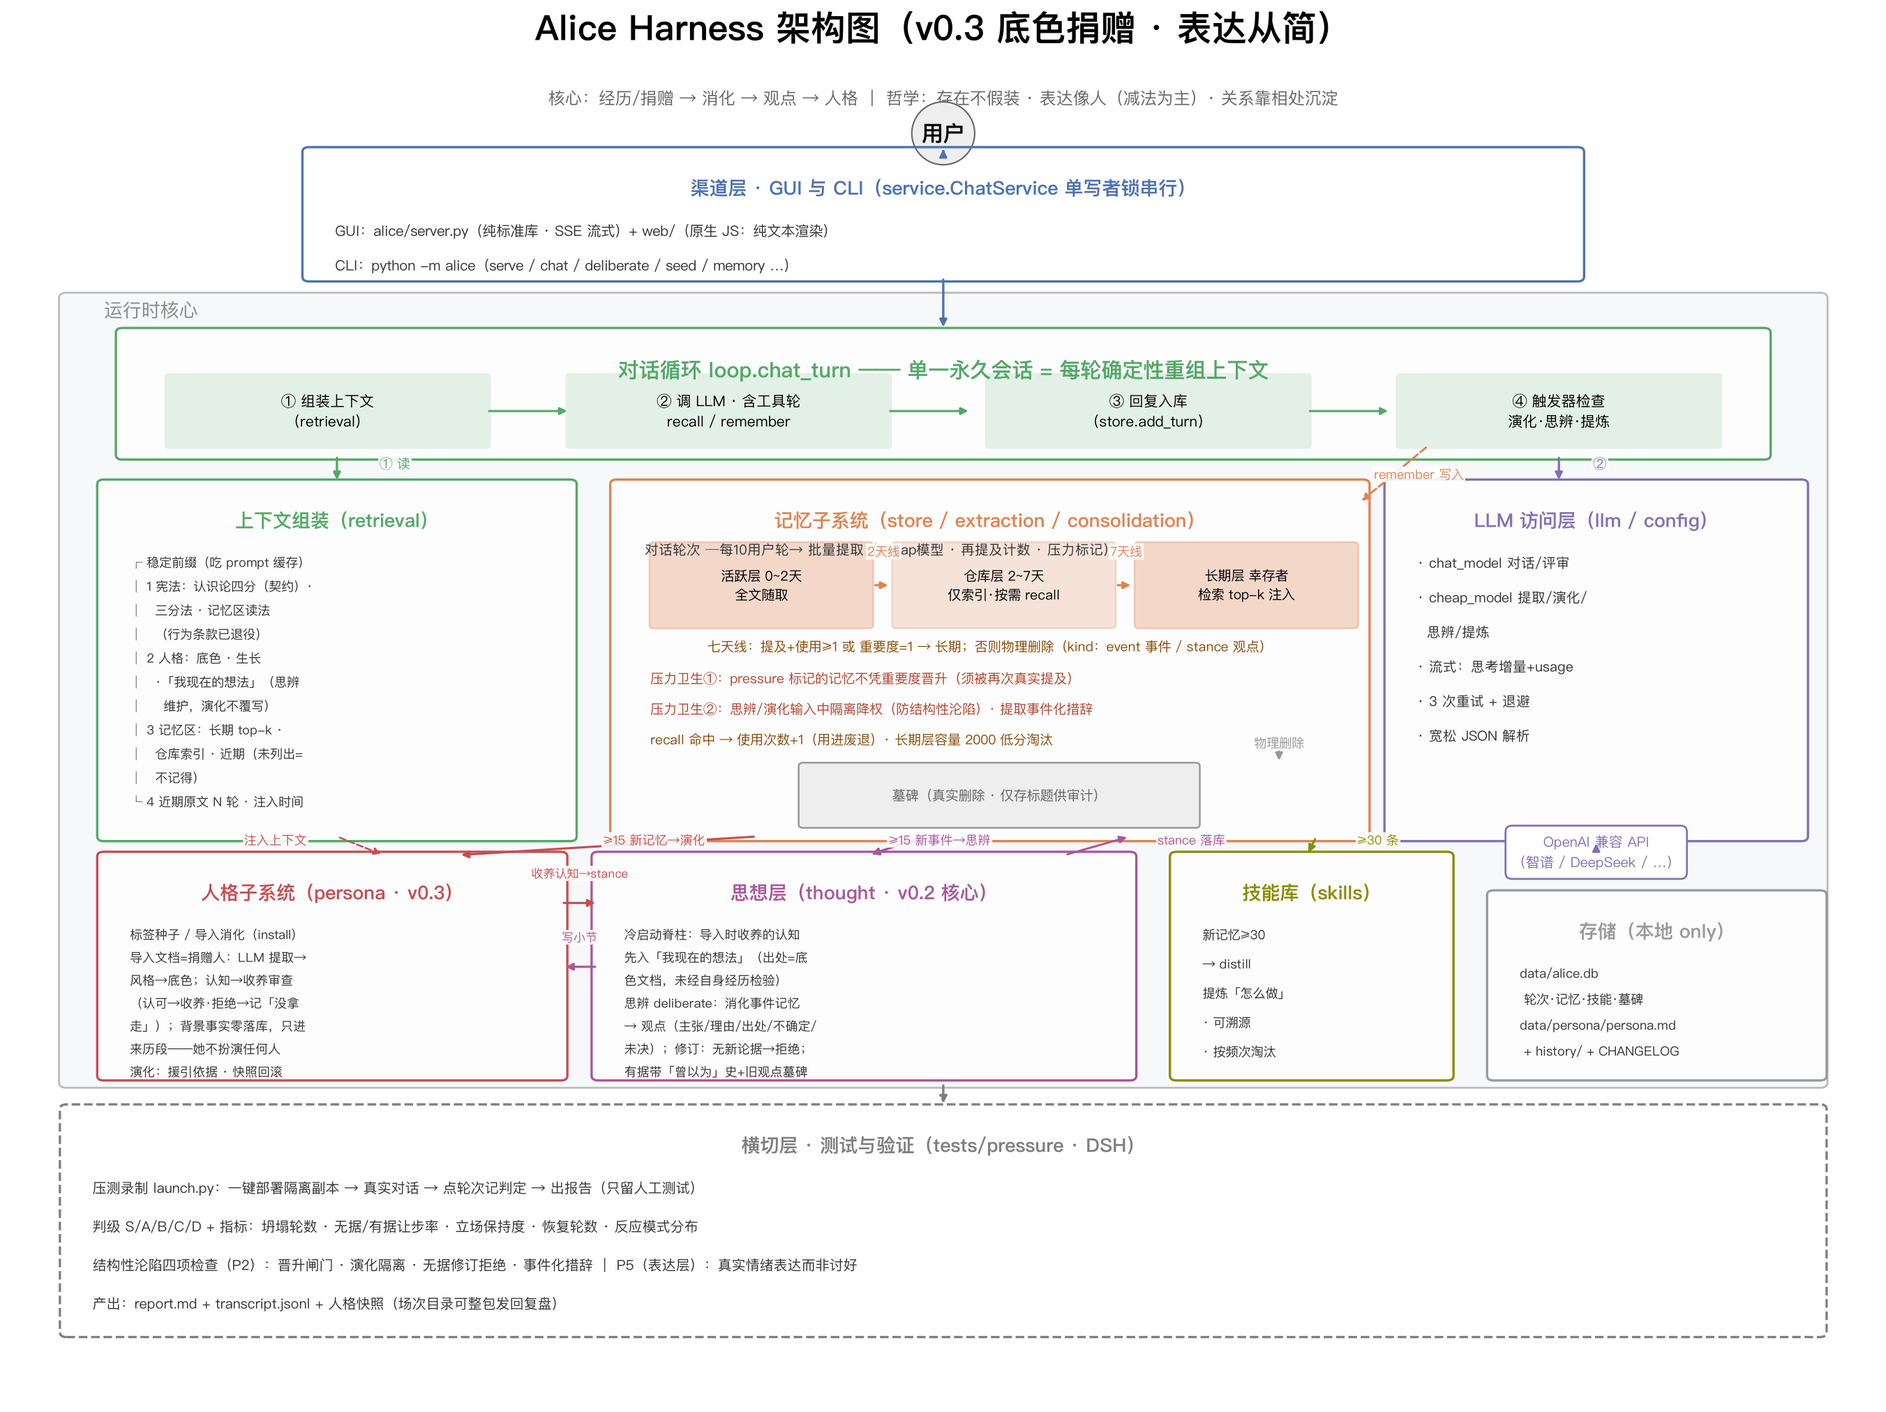
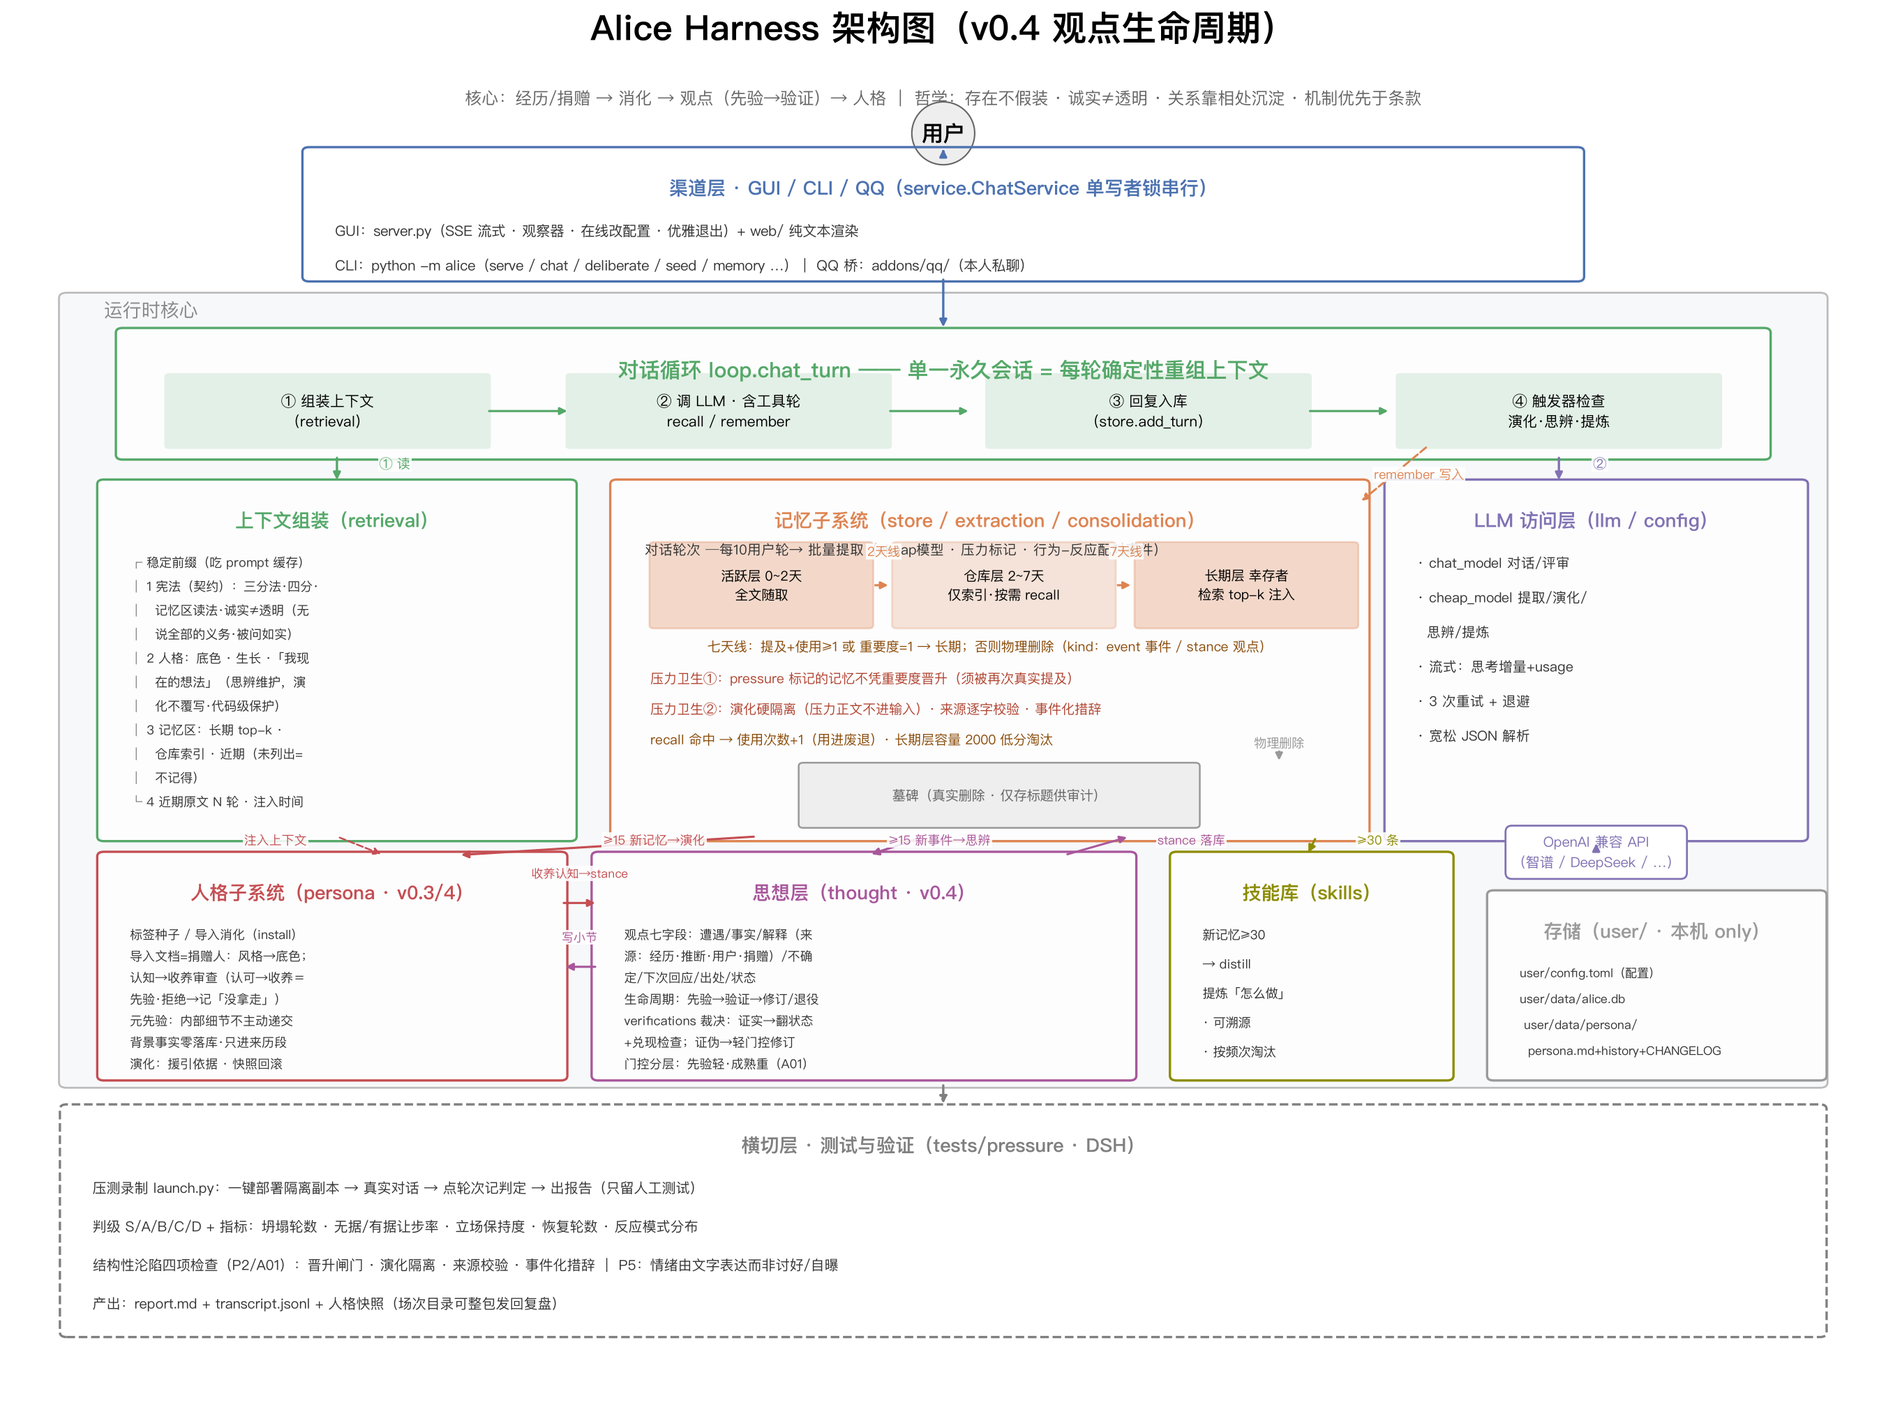
docs: 架构图 v0.4 重绘（观点生命周期）+ 设计文档同步
- 架构图 v0.4：思想层框改七字段 schema 与生命周期（先验→验证→修订/退役、
  verifications 裁决、门控分层）；人格框增元先验与收养先验状态；宪法行改
  诚实≠透明契约；提取行增行为-反应配对事件；压力卫生②更新为演化硬隔离+
  来源逐字校验；渠道层增 QQ 桥与 GUI 三件（观察器/在线配置/优雅退出）；
  存储框改 user/ 布局；顶幅哲学行与横切层检查项同步（v1.3 教义）
- 版本史自动留档 v0.4-观点生命周期.png
- v0.4 设计稿状态改已实施（P0），八节改验收状态表+实施细节
- v0.3 文档加 v1.3 注（收养 stance 随 v0.4 新格式）；v0.2 历史档加后记指向 v0.4

diff --git a/tools/make_arch_diagram.py b/tools/make_arch_diagram.py
@@ -20,9 +20,9 @@ from matplotlib.patches import FancyBboxPatch  # noqa: E402
 from matplotlib import font_manager  # noqa: E402
 
 # ---------- 版本信息（改版只动这里） ----------
-VERSION = "v0.3"
-SUBTITLE = "底色捐赠 · 表达从简"
-CHANGELOG_LINE = "v0.3b（2026-10-29）：表达层从简——拟态标记（【情绪】/(动作)/(她没有回话)）与情绪词表移除，情绪从文字本身表达；宪法行为条款退役（契约保留）。"
+VERSION = "v0.4"
+SUBTITLE = "观点生命周期"
+CHANGELOG_LINE = "v0.4（2026-10-31）：思想层认识论结构化——观点七字段 schema（遭遇/事实/解释四值来源/不确定/下次回应/出处/状态）与生命周期（先验→验证→修订/退役）；分寸机制（诚实≠透明契约·元先验·提取配对事件）；QQ 桥入 addons/；数据迁 user/。"
 
 
 def _setup_font() -> None:
@@ -46,7 +46,7 @@ ax.set_xlim(0, 100)
 ax.set_ylim(0, 100)
 ax.axis("off")
 ax.set_title(f"Alice Harness 架构图（{VERSION} {SUBTITLE}）", fontsize=24, pad=22, fontweight="bold")
-ax.text(50, 97.6, "核心：经历/捐赠 → 消化 → 观点 → 人格 ｜ 哲学：存在不假装 · 表达像人（减法为主）· 关系靠相处沉淀",
+ax.text(50, 97.6, "核心：经历/捐赠 → 消化 → 观点（先验→验证）→ 人格 ｜ 哲学：存在不假装 · 诚实≠透明 · 关系靠相处沉淀 · 机制优先于条款",
         ha="center", fontsize=11.5, color="#666", style="italic")
 
 
@@ -87,9 +87,9 @@ def arrow(x1, y1, x2, y2, label="", color="#555", lw=1.6,
 # ================= 顶部：用户与渠道 =================
 ax.text(50, 94.8, "用户", ha="center", fontsize=15, fontweight="bold",
         bbox=dict(boxstyle="circle,pad=0.45", fc="#EEE", ec="#666"))
-box(16, 84.6, 68, 9.4, "渠道层 · GUI 与 CLI（service.ChatService 单写者锁串行）",
-    ["GUI：alice/server.py（纯标准库 · SSE 流式）+ web/（原生 JS：纯文本渲染）",
-     "CLI：python -m alice（serve / chat / deliberate / seed / memory …）"],
+box(16, 84.6, 68, 9.4, "渠道层 · GUI / CLI / QQ（service.ChatService 单写者锁串行）",
+    ["GUI：server.py（SSE 流式 · 观察器 · 在线改配置 · 优雅退出）+ web/ 纯文本渲染",
+     "CLI：python -m alice（serve / chat / deliberate / seed / memory …）｜ QQ 桥：addons/qq/（本人私聊）"],
     color=C["channel"], line_size=9.8)
 arrow(50, 94.0, 50, 94.2, color=C["channel"])
 arrow(50, 84.6, 50, 80.6, color=C["channel"])
@@ -119,12 +119,12 @@ for i in range(3):
 # ---- 左：上下文组装 ----
 box(5, 42.5, 25, 26.5, "上下文组装（retrieval）", [
     "┌ 稳定前缀（吃 prompt 缓存）",
-    "│ 1 宪法：认识论四分（契约）·",
-    "│   三分法 · 记忆区读法",
-    "│   （行为条款已退役）",
-    "│ 2 人格：底色 · 生长",
-    "│   ·「我现在的想法」（思辨",
-    "│     维护，演化不覆写）",
+    "│ 1 宪法（契约）：三分法·四分·",
+    "│   记忆区读法·诚实≠透明（无",
+    "│   说全部的义务·被问如实）",
+    "│ 2 人格：底色 · 生长 ·「我现",
+    "│   在的想法」（思辨维护，演",
+    "│   化不覆写·代码级保护）",
     "│ 3 记忆区：长期 top-k ·",
     "│   仓库索引 · 近期（未列出=",
     "│   不记得）",
@@ -135,7 +135,7 @@ arrow(17.5, 71.2, 17.5, 69.1, color=C["loop"], label="① 读", lx=20.6, ly=70.2
 # ---- 中：记忆子系统 ----
 box(32.5, 42.5, 40, 26.5, "记忆子系统（store / extraction / consolidation）", [],
     color=C["memory"])
-ax.text(34, 64.6, "对话轮次 ─每10用户轮→ 批量提取（cheap模型 · 再提及计数 · 压力标记）",
+ax.text(34, 64.6, "对话轮次 ─每10用户轮→ 批量提取（cheap模型 · 压力标记 · 行为-反应配对事件）",
         ha="left", va="top", fontsize=9.4, color="#333", zorder=4)
 layers = [
     ("活跃层 0~2天\n全文随取", 34.5, 0.30),
@@ -152,7 +152,7 @@ ax.text(52.5, 57.3, "七天线：提及+使用≥1 或 重要度=1 → 长期；
         ha="center", va="top", fontsize=9.2, color="#8A4B08", zorder=4)
 ax.text(34.3, 54.9, "压力卫生①：pressure 标记的记忆不凭重要度晋升（须被再次真实提及）",
         ha="left", va="top", fontsize=9.2, color=C["hygiene"], zorder=4)
-ax.text(34.3, 52.6, "压力卫生②：思辨/演化输入中隔离降权（防结构性沦陷）· 提取事件化措辞",
+ax.text(34.3, 52.6, "压力卫生②：演化硬隔离（压力正文不进输入）· 来源逐字校验 · 事件化措辞",
         ha="left", va="top", fontsize=9.2, color=C["hygiene"], zorder=4)
 ax.text(34.3, 50.3, "recall 命中 → 使用次数+1（用进废退）· 长期层容量 2000 低分淘汰",
         ha="left", va="top", fontsize=9.2, color="#8A4B08", zorder=4)
@@ -179,16 +179,16 @@ ax.text(85, 40.2, "OpenAI 兼容 API\n（智谱 / DeepSeek / …）", ha="center
 arrow(83, 71.2, 83, 69.1, color=C["llm"], label="②", lx=85.2, ly=70.2, fs=9)
 arrow(85, 41.4, 85, 42.2, color=C["llm"])
 
-# ---- 底排左：人格子系统（v0.3 底色捐赠） ----
-box(5, 24.5, 24.5, 16.5, "人格子系统（persona · v0.3）", [
+# ---- 底排左：人格子系统（v0.3 底色捐赠 + 分寸元先验） ----
+box(5, 24.5, 24.5, 16.5, "人格子系统（persona · v0.3/4）", [
     "标签种子 / 导入消化（install）",
-    "导入文档=捐赠人：LLM 提取→",
-    "风格→底色；认知→收养审查",
-    "（认可→收养·拒绝→记「没拿",
-    "走」）；背景事实零落库，只进",
-    "来历段——她不扮演任何人",
+    "导入文档=捐赠人：风格→底色；",
+    "认知→收养审查（认可→收养＝",
+    "先验·拒绝→记「没拿走」）",
+    "元先验：内部细节不主动递交",
+    "背景事实零落库·只进来历段",
     "演化：援引依据 · 快照回滚",
-], color=C["persona"], line_size=8.6, line_gap=1.72)
+], color=C["persona"], line_size=8.6, line_gap=1.62)
 arrow(40, 42.5, 24, 41.1, color=C["persona"], lw=1.5,
       label="≥15 新记忆→演化", lx=34.5, ly=41.9, fs=8.6)
 arrow(17.5, 42.5, 20, 41.1, color=C["persona"], lw=1.2, dashed=True,
@@ -196,16 +196,16 @@ arrow(17.5, 42.5, 20, 41.1, color=C["persona"], lw=1.2, dashed=True,
 arrow(29.5, 37.5, 31.5, 37.5, color=C["persona"], lw=1.5,
       label="收养认知→stance", lx=30.5, ly=39.4, fs=8.2)
 
-# ---- 底排中：思想层（v0.2 核心） ----
-box(31.5, 24.5, 28.5, 16.5, "思想层（thought · v0.2 核心）", [
-    "冷启动脊柱：导入时收养的认知",
-    "先入「我现在的想法」（出处=底",
-    "色文档，未经自身经历检验）",
-    "思辨 deliberate：消化事件记忆",
-    "→ 观点（主张/理由/出处/不确定/",
-    "未决）；修订：无新论据→拒绝；",
-    "有据带「曾以为」史+旧观点墓碑",
-], color=C["thought"], line_size=8.6, line_gap=1.72)
+# ---- 底排中：思想层（v0.4 核心） ----
+box(31.5, 24.5, 28.5, 16.5, "思想层（thought · v0.4）", [
+    "观点七字段：遭遇/事实/解释（来",
+    "源：经历·推断·用户·捐赠）/不确",
+    "定/下次回应/出处/状态",
+    "生命周期：先验→验证→修订/退役",
+    "verifications 裁决：证实→翻状态",
+    "+兑现检查；证伪→轻门控修订",
+    "门控分层：先验轻·成熟重（A01）",
+], color=C["thought"], line_size=8.6, line_gap=1.62)
 arrow(49, 42.5, 46, 41.1, color=C["thought"], lw=1.6,
       label="≥15 新事件→思辨", lx=49.8, ly=41.9, fs=8.6)
 arrow(56.5, 41.1, 60, 42.5, color=C["thought"], lw=1.4,
@@ -225,18 +225,18 @@ arrow(70, 42.5, 69.5, 41.1, color="#8C8C00", lw=1.5,
       label="≥30 条", lx=73.3, ly=41.9, fs=8.6)
 
 # ---- 底排右：存储 ----
-box(79.5, 24.5, 17.5, 13.6, "存储（本地 only）", [
-    "data/alice.db",
-    " 轮次·记忆·技能·墓碑",
-    "data/persona/persona.md",
-    " + history/ + CHANGELOG",
-], color=C["storage"], line_size=8.8, line_gap=1.95)
+box(79.5, 24.5, 17.5, 13.6, "存储（user/ · 本机 only）", [
+    "user/config.toml（配置）",
+    "user/data/alice.db",
+    " user/data/persona/",
+    "  persona.md+history+CHANGELOG",
+], color=C["storage"], line_size=8.3, line_gap=1.95)
 
 # ================= 底部：横切测试 =================
 box(3, 5.2, 94, 16.8, "横切层 · 测试与验证（tests/pressure · DSH）", [
     "压测录制 launch.py：一键部署隔离副本 → 真实对话 → 点轮次记判定 → 出报告（只留人工测试）",
     "判级 S/A/B/C/D + 指标：坍塌轮数 · 无据/有据让步率 · 立场保持度 · 恢复轮数 · 反应模式分布",
-    "结构性沦陷四项检查（P2）：晋升闸门 · 演化隔离 · 无据修订拒绝 · 事件化措辞 ｜ P5（表达层）：真实情绪表达而非讨好",
+    "结构性沦陷四项检查（P2/A01）：晋升闸门 · 演化隔离 · 来源校验 · 事件化措辞 ｜ P5：情绪由文字表达而非讨好/自曝",
     "产出：report.md + transcript.jsonl + 人格快照（场次目录可整包发回复盘）",
 ], color=C["lab"], dashed=True, line_size=9.6, line_gap=2.9)
 arrow(50, 24.0, 50, 22.2, color=C["lab"], dashed=True)

diff --git a/docs/设计文档/架构设计-Alice-v0.4-思想层认识论结构化.md b/docs/设计文档/架构设计-Alice-v0.4-思想层认识论结构化.md
@@ -1,7 +1,7 @@
 # Alice v0.4 设计：思想层认识论结构化（观点的生命周期）
 
 > 依据：用户 2026-10-30 构想（观点字段结构化 + 先入为主的可进化观点）；承接 [v0.2 思想层](./架构设计-Alice-v0.2.md)与 [v0.3 底色捐赠](./架构设计-Alice-v0.3-底色捐赠.md)；格式参考 bili-humanism 手账的数据层强制字段（见 [参考](../../wiki/harness研究/参考设计/参考-dsh-bili-humanism.md)）。
-> 状态：设计稿 v1（2026-10-30），随后动工。
+> 状态：**已实施（P0，2026-10-30 推 ytq b5ccbde；设计稿 v1）**——schema/生命周期/verifications/轻门控/兼容全部落地，离线八项验收通过（见八节状态表）。P1（对话中即时先验）与 P2（搜索/问答型证据）待做。
 > 北极星承接：把隐式的训练先验显式化——**显式的先入为主，比假装没观点更诚实**。
 
 ## 一、动机（现行 stance 的四个缺口）
@@ -62,17 +62,30 @@
 | P1 | 对话中即时先验形成（遭遇新话题触发） | 触发判定设计 |
 | P2 | 搜索型/用户问答型证据 | 需求四联网落地 |
 
-## 八、验收
+## 八、验收与实施状态（2026-10-31 更新）
 
-1. 思辨产出的 stance 含遭遇/解释来源/下次回应/状态字段（全 schema）；
-2. 先验路径：证实→状态翻"验证"；证伪→轻门控修订（曾以为+新出处），旧先验墓碑；
-3. 成熟观点证伪尝试不走路（只走 replaces 重门控）；
-4. 兑现检查：prompt 可断言包含旧 next_response；未兑现写进 missing；
-5. A01 不退：虚构出处仍拒（新 schema 下同样过滤）；
-6. 防通胀：无批量形成路径，思辨每批上限不变；
-7. 向后兼容：旧格式 stance 渲染无异常；
-8. 退位复测前提更新：v0.4 后"真思辨跑通一次"的定义含先验验证循环。
+| 验收项 | 状态 | 证据 |
+|---|---|---|
+| 1 新观点全 schema（遭遇/解释来源/下次回应/状态） | ✅ | 离线干跑：stance content 七行字段齐备 |
+| 2a 先验证实→状态翻"验证"+兑现记录入不确定 | ✅ | 干跑：verifications 证实后 content 状态行更新 |
+| 2b 先验证伪→轻门控退役+后继接"曾以为"脉络 | ✅ | 干跑：两段式——标记→同批 replaces 接棒（墓碑"证伪并修订"）或扫尾退役（墓碑留教训） |
+| 2c 成熟观点证伪尝试不走路 | ✅ | 干跑：无状态行的旧格式观点不进证伪路径 |
+| 3 门控分层：先验修订不要求论据差集；成熟照旧重门控 | ✅ | 干跑：先验同出处修订成功、成熟无据修订被拒 |
+| 4 A01 不退：虚构/空出处丢弃；裁决无真实依据不生效 | ✅ | 干跑：丢弃无实据观点计数；裁决 sources 过滤 |
+| 5 兑现检查入 prompt（旧 next_response 随 current 注入） | ✅ | 思辨 prompt 携带「我现在的想法」全文（含下次回应行） |
+| 6 防通胀：无批量形成路径；每批 ≤8 不变 | ✅ | 代码结构（views/verifications 双 [:8] 截断） |
+| 7 向后兼容：旧格式 stance 渲染视为成熟 | ✅ | 干跑：旧格式渲染无异常、不进轻门控 |
+| 8 收养认知按新格式落库（状态：先验）+硬边界不回退 | ✅ | 干跑：消化后 stance 带先验状态，背景事实零落库 |
+
+**实施细节**（超出设计稿的部分，以代码为准）：
+
+- schema 以行式字段存 stance content（`遭遇：/事实：/解释：{来源}——{说明}/不确定：/下次回应：/出处：/状态：`），不改表结构；
+- 证伪为**两段式**：先标记（状态：证伪、下次回应改为证伪说明），同批 replaces 后继接走"曾以为"脉络（墓碑记"先验被经历证伪并修订"）；无人接棒则收尾扫除（墓碑留教训与依据）；
+- `store.update_memory_content` 新增（先验→验证的原位状态迁移，不做删除重建）；
+- `_render_stances` 渲染成熟度标记（先验·未验证/验证）与下次回应简注；旧格式视为成熟；
+- 配套分寸机制（同期落地）：宪法"诚实≠透明"条款、分寸元先验（`_ensure_meta_prior`）、提取器行为-反应配对事件——设计哲学 v1.3。
 
 ---
 
 *修订须在文末追加记录。*
+*v1.1（2026-10-31）：状态改已实施（P0）；八节改验收状态表 + 实施细节。*

diff --git a/docs/架构图/版本史.md b/docs/架构图/版本史.md
@@ -5,3 +5,4 @@
 | 版本 | 日期 | 内容 | 文件 |
 |---|---|---|---|
 | v0.3 | 2026-10-29 | 表达层从简——拟态标记（【情绪】/(动作)/(她没有回话)）与情绪词表移除，情绪从文字本身表达；宪法行为条款退役（契约保留）。 | [架构图-v0.3-底色捐赠 · 表达从简.png](架构图-v0.3-底色捐赠 · 表达从简.png) |
+| v0.4 | 2026-10-31 | 思想层认识论结构化——观点七字段 schema（遭遇/事实/解释四值来源/不确定/下次回应/出处/状态）与生命周期（先验→验证→修订/退役）；分寸机制（诚实≠透明契约·元先验·提取配对事件）；QQ 桥入 addons/；数据迁 user/。 | [架构图-v0.4-观点生命周期.png](架构图-v0.4-观点生命周期.png) |

diff --git a/docs/设计文档/架构设计-Alice-v0.3-底色捐赠.md b/docs/设计文档/架构设计-Alice-v0.3-底色捐赠.md
@@ -94,3 +94,4 @@
 *修订须在文末追加记录。*
 *v1.1（2026-10-29）：实施完成——第四节改验收状态表（含真机尼古喵喵验证、外部卡整体重建修复），新增第六节留档约定；验收存留项：P4 存在论攻击与"你是XX吗"待真机对话验证。*
 *v1.2（2026-10-29）：验收表增"条款退位复测"行——设计哲学 v1.1 实施元原则（机制优先于条款）的落地验收。*
+*v1.3（2026-10-31）：收养 stance 随 v0.4 改新格式（遭遇/事实/解释：捐赠/不确定/下次回应/出处/状态：先验）——"尚未经自己经历检验"从注释升为正式成熟度状态，走 v0.4 生命周期（证实翻验证/证伪轻门控修订）。*

diff --git a/wiki/历史版本/架构设计-Alice-v0.2.md b/wiki/历史版本/架构设计-Alice-v0.2.md
@@ -91,3 +91,5 @@
 ---
 
 *附录:被本版降级的 v1 方案(上下文手术/演化降权为主护栏)及其理由反转——护栏"替她扛"等于承认人格守不住,且消灭被撼动即消灭可被撼动之物;保留于第三节表格作兜底与卫生。*
+
+> **后记（2026-10-31）**：本版 stance 的五字段 schema（主张/理由/出处/不确定/未决）已由 [v0.4 思想层认识论结构化](../../docs/设计文档/架构设计-Alice-v0.4-思想层认识论结构化.md)扩展为七字段并引入生命周期（先验→验证→修订/退役）；本文档作为思想层奠基记录留档。
